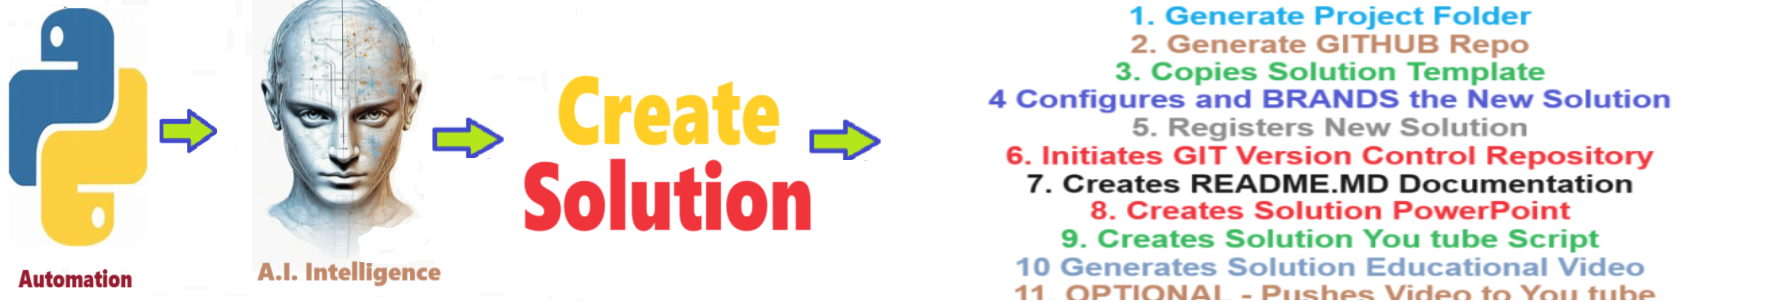
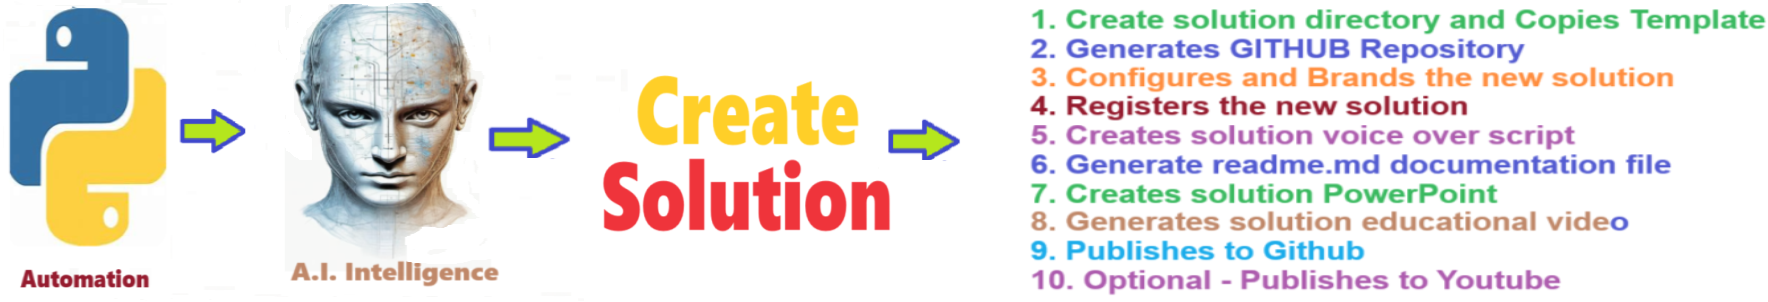
Automated 2024-04-09 commit

diff --git a/readme.md b/readme.md
@@ -10,6 +10,20 @@ The "create_solution" app is a powerful tool designed to streamline the developm
 
 The are many ways to do this. It isnt perfect !!! so Experiment. Branch it, configure it, and Change it. 
 
+## The process automates:
+
+1. Create solution directory and copies template
+2. Generates GITHUB repository
+3. Configures and brands the new solution
+4. Registers the new solution
+5. Creates solution voice over script
+6. Generate readme.md documentation file
+7. Creates solution PowerPoint
+8. Generates solution educational video
+9. Publishes to Github
+10. Optional - Publishes to Youtube
+
+
 ## Features
 
 - Easy to understand and use  
